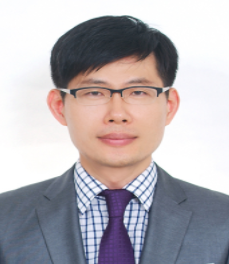
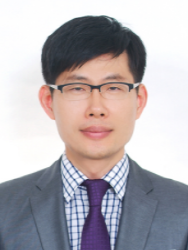
테스트

diff --git a/index.html b/index.html
@@ -1,4 +1,4 @@
-<!DOCTYPE html>
+<!DOCTYPE html>
 <html lang="en">
 
 <head>
@@ -109,30 +109,40 @@
         <div class="container">
             <div class="row">
                 <div class="col-lg-3 col-md-6 text-center">
-                    <div class="service-box">
-                        <img src="img/portrait/hong_jeonghan.png" class="img-responsive fa fa-4x" alt="">
+                    <div class="portfolio-box">
+                        <img src="img/portrait/hong_jeonghan.png" width=188 height=250 class="img-responsive fa fa-4x" alt="">
+                        <div class="portfolio-box-caption">
+                            <div class="portfolio-box-caption-content">
+                                <div class="project-category text-faded">
+                                    홍정한
+                                </div>
+                                <div class="project-name">
+                                    대표이사
+                                </div>
+                            </div>
+                        </div>
                         <h3>홍정한</h3>
-                        <p class="text-muted">Our templates are updated regularly so they don't break.</p>
+                        <p class="text-muted"></p>
                     </div>
                 </div>
                 <div class="col-lg-3 col-md-6 text-center">
                     <div class="service-box">
-                        <img src="img/portrait/hong_jeonghan.png" class="img-responsive fa fa-4x" alt="">
-                        <h3>홍정한</h3>
+                        <img src="img/portrait/man-user.png" width=188 height=250 class="img-responsive fa fa-4x" alt="">
+                        <h3>정원</h3>
                         <p class="text-muted">You can use this theme as is, or you can make changes!</p>
                     </div>
                 </div>
                 <div class="col-lg-3 col-md-6 text-center">
                     <div class="service-box">
-                        <img src="img/portrait/hong_jeonghan.png" class="img-responsive fa fa-4x" alt="">
-                        <h3>홍정한</h3>
+                        <img src="img/portrait/man-user.png" width=188 height=250 class="img-responsive fa fa-4x" alt="">
+                        <h3>윤준호</h3>
                         <p class="text-muted">We update dependencies to keep things fresh.</p>
                     </div>
                 </div>
                 <div class="col-lg-3 col-md-6 text-center">
                     <div class="service-box">
-                        <img src="img/portrait/hong_jeonghan.png" class="img-responsive fa fa-4x" alt="">
-                        <h3>홍정한</h3>
+                        <img src="img/portrait/정현진.png" width=188 height=250 class="img-responsive fa fa-4x" alt="">
+                        <h3>정현진</h3>
                         <p class="text-muted">You have to make your websites with love these days!</p>
                     </div>
                 </div>
@@ -142,29 +152,29 @@
             <div class="row">
                 <div class="col-lg-3 col-md-6 text-center">
                     <div class="service-box">
-                        <img src="img/portrait/hong_jeonghan.png" class="img-responsive fa fa-4x" alt="">
-                        <h3>홍정한</h3>
+                        <img src="img/portrait/이형근.jpg" width=188 height=250 class="img-responsive fa fa-4x" alt="">
+                        <h3>이형근</h3>
                         <p class="text-muted">Our templates are updated regularly so they don't break.</p>
                     </div>
                 </div>
                 <div class="col-lg-3 col-md-6 text-center">
                     <div class="service-box">
-                        <img src="img/portrait/hong_jeonghan.png" class="img-responsive fa fa-4x" alt="">
-                        <h3>홍정한</h3>
+                        <img src="img/portrait/남준모.png" width=188 height=250 class="img-responsive fa fa-4x" alt="">
+                        <h3>남준모</h3>
                         <p class="text-muted">You can use this theme as is, or you can make changes!</p>
                     </div>
                 </div>
                 <div class="col-lg-3 col-md-6 text-center">
                     <div class="service-box">
-                        <img src="img/portrait/hong_jeonghan.png" class="img-responsive fa fa-4x" alt="">
-                        <h3>홍정한</h3>
+                        <img src="img/portrait/차욱현.jpg" width=188 height=250 class="img-responsive fa fa-4x" alt="">
+                        <h3>차욱현</h3>
                         <p class="text-muted">We update dependencies to keep things fresh.</p>
                     </div>
                 </div>
                 <div class="col-lg-3 col-md-6 text-center">
                     <div class="service-box">
-                        <img src="img/portrait/hong_jeonghan.png" class="img-responsive fa fa-4x" alt="">
-                        <h3>홍정한</h3>
+                        <img src="img/portrait/man-user.png" width=188 height=250 class="img-responsive fa fa-4x" alt="">
+                        <h3>김희재</h3>
                         <p class="text-muted">You have to make your websites with love these days!</p>
                     </div>
                 </div>
